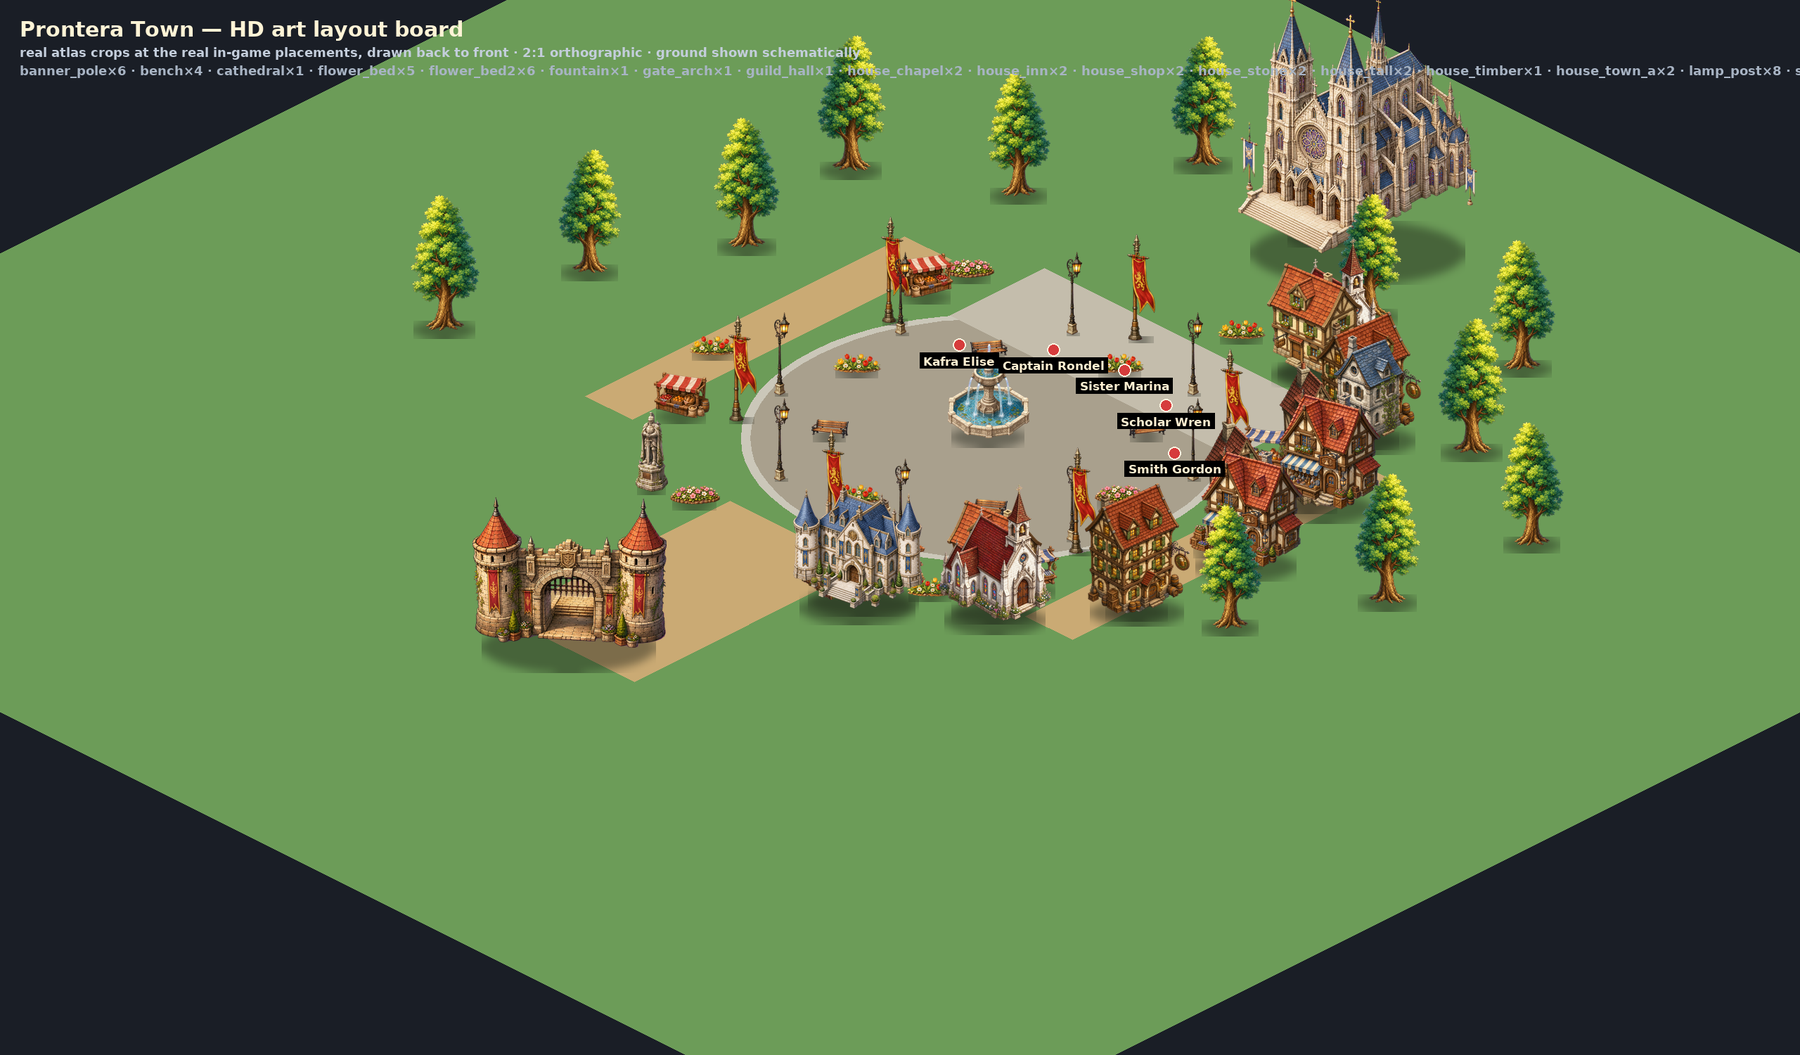
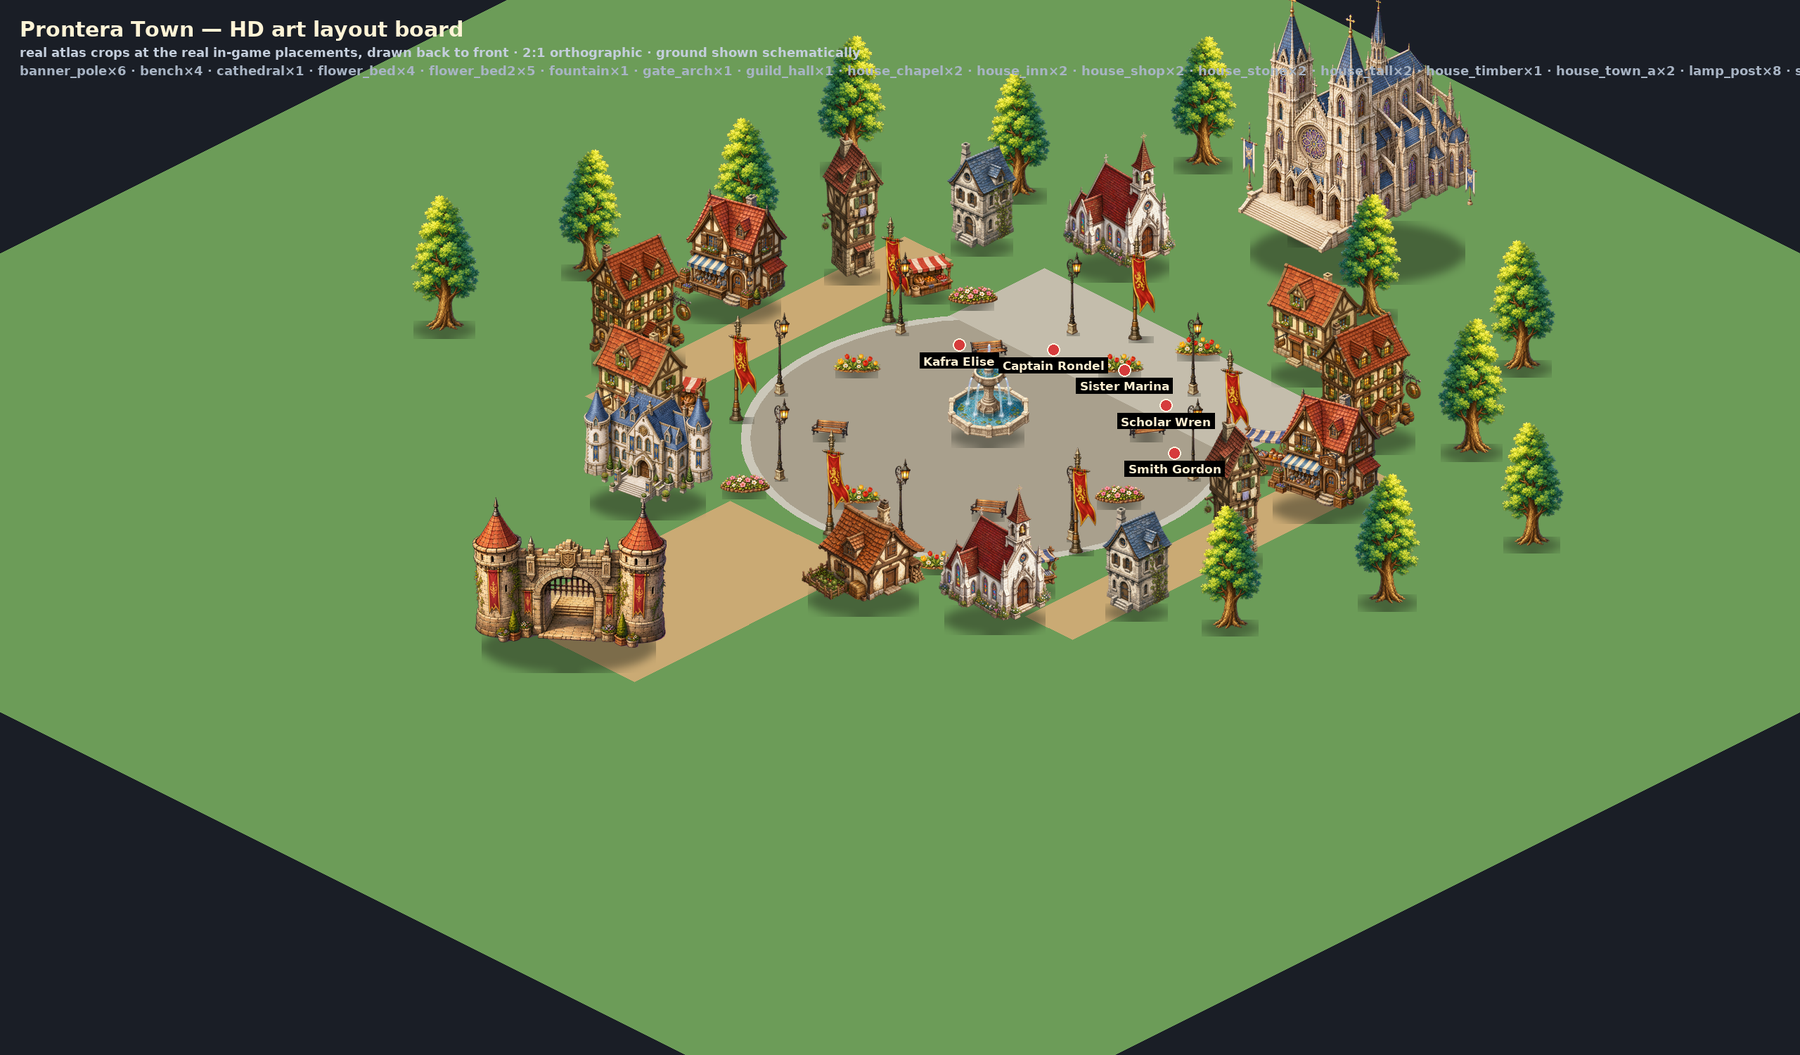
v69 camera pass: the town seen through the game's own camera, and the ring bug that caught
* a second board: tools/_town_dump.js now takes the camera the game itself would have at the hero's
  landing spot (town zoom clamp applied, 16:9 window) and preview_town_board.py projects every sprite
  through its real view-projection matrix -> Updates/town-hd/board-2-town-camera-view.png. The plan
  board stays for layout; the camera board is the closest thing to a screenshot this sandbox can make.
* BUG it caught: the ring's west arc was generated as side*(-66+k*22) degrees, and a mirrored angle
  list is the same list - all fourteen houses stood on the east side, seven pairs exactly on top of
  each other, invisible on the plan and obvious from the camera. The west arc is 114+k*22 now; seven
  houses each side, x -17.4..16.9. town_smoke gained a guard (houses on both sides, the avenue clear,
  the cathedral's north end clear, fourteen houses).
* the town is framed for its own size: entering the town clamps zoom to <= .46 (was .62, a field's
  own pull-back, which showed a third of a 44-unit town) and the wheel goes out to .40 in town only.
* flower beds on the plaza rim were landing on the two side paths (r 15.4); they are at r 12.8-14.9
  and skip the paving strips now.
* api_sim's long-standing flake fixed at the root: the exact-time offline assertion raced Date.now()
  with the handler (7200001 !== 7200000) and cascaded into three more; the test freezes the clock for
  that call. Four standalone runs and two full loops green.
[…]

diff --git a/index.html b/index.html
@@ -5106,7 +5106,10 @@ function townBuild(){
   // house it gets is as wide as that slice, which is what makes the fronts meet like a street.
   for(const side of[1,-1]){
     for(let k=0;k<7;k++){
-      const a=side*(-66+k*22)*Math.PI/180;
+      // the two arcs are mirrors of each other: -66..66 deg is the east side, 114..246 deg is the
+      // west (a mirrored angle list would have walked the east arc backwards - which is exactly the
+      // bug the camera board caught: fourteen houses, all of them on the east side, doubled).
+      const a=((side>0?-66:114)+k*22)*Math.PI/180;
       const r=16.7+((k*5+(side>0?0:1))%3)*.75;
       ring.push({i:ring.length,a,r,units:0,flip:(side<0)!==(k%2===1),
         x:Math.cos(a)*r,z:TOWN_Z+Math.sin(a)*r});
@@ -5195,7 +5198,8 @@ function townBuild(){
     prop('tree_big',x,z,TOWN_WH.tree_big+((i*7)%3)*.4,i%2===1,[g2]);
   }
   for(let i=0;i<26;i++){
-    const a=i*Math.PI/13,r=15.4+((i*11)%4)*.9,x=Math.cos(a)*r,z=TOWN_Z+Math.sin(a)*r;
+    const a=i*Math.PI/13,r=12.8+((i*11)%4)*.7,x=Math.cos(a)*r,z=TOWN_Z+Math.sin(a)*r;
+    if(Math.abs(x)>12.4&&Math.abs(x)<17.4&&z>TOWN_Z-12.2&&z<TOWN_Z+12.2)continue;   // not on the paths
     const fl=mk(TOWN.propBlk,SP(.09),[0xff9db8,0xffe066,0xffffff][i%3],x,.1,z);fl.castShadow=false;
     if(i%4===0)prop(i%8===0?'flower_bed':'flower_bed2',x,z,TOWN_WH.flower_bed,false,[fl]);
   }
@@ -5468,7 +5472,7 @@ function townEnter(quiet){
   if(!S)return;
   townBuild();
   TOWN.on=1;town=1;S.town=1;
-  TOWN.zoom=zoom;zoom=Math.min(zoom,.62);       // a town is wide: show the plaza, its NPCs and the roofs
+  TOWN.zoom=zoom;zoom=Math.min(zoom,.46);       // a town is wide: the whole square, station and gate
   mobs.length=0;mob=null;pend=[];castQ=[];tb={};
   pl.wx=pl.x=0;pl.wz=pl.z=6.5;pl.wt=0;pl.run=0;
   townArt();
@@ -5640,7 +5644,9 @@ dom.addEventListener('pointerup',e=>{const t2=TOWN_TAP;drag=null;TOWN_TAP=null;
   // loop, and a stray click must never send them off to a corner. A tap outside the town does nothing.
   if(t2&&townOn()&&Math.abs(e.clientX-t2.clientX)+Math.abs(e.clientY-t2.clientY)<=6)townClick(e.clientX,e.clientY)});
 dom.addEventListener('pointercancel',()=>{drag=null;TOWN_TAP=null});
-dom.addEventListener('wheel',e=>{e.preventDefault();zoom=Math.min(2,Math.max(.6,zoom*(e.deltaY<0?1.1:.9)))},{passive:false});
+dom.addEventListener('wheel',e=>{e.preventDefault();
+  const lo=TOWN.scene?.40:.6;                    // a town is wider than a field lane, so it zooms out further
+  zoom=Math.min(2,Math.max(lo,zoom*(e.deltaY<0?1.1:.9)))},{passive:false});
 
 // Keep the character near the visual centre: a very small forward lead (0.25 world units)
 // leaves the body centre about 2% above screen centre, instead of the old 5-unit lead that

diff --git a/tools/_town_dump.js b/tools/_town_dump.js
@@ -24,6 +24,18 @@ const man=fs.readFileSync(path.join(ROOT,'assets/town/town-atlas.json'),'utf8');
 ev(`TOWNP.man=JSON.parse(${JSON.stringify(man)});TOWNP.png=document.createElement('canvas');TOWNP.ok=1;TOWNP.tex.clear();TOWN.paint=0;`);
 ev('window.town()');
 const out=JSON.parse(ev(`(()=>{
+  // The camera the player actually gets: entered town, after the zoom clamp, positioned by the same
+  // code the frame loop uses. Written out so the board can draw the town through it.
+  TOWN.zoom=1;zoom=1;window.town();if(!townOn())window.town();
+  TOWN.zoom=1;   // enter at the wallet's default view, then apply the town's own clamp
+  cam.aspect=16/9;                       // a normal desktop window, not the stub's 3:2
+  const dd=(cam.aspect<1.5?26:18)/zoom;
+  az=0;el=.95;
+  // The camera follows the hero (ct lerps towards pl each frame), so the honest "just walked in"
+  // view is the one from where the hero lands, with ct settled on them - gate and avenue in shot.
+  const ct={x:pl.x*.6,z:pl.z-CAMERA_LEAD_Z,y:CAMERA_FOCUS_Y};
+  cam.position.set(ct.x+Math.sin(az)*Math.cos(el)*dd,Math.sin(el)*dd+.5,ct.z+Math.cos(az)*Math.cos(el)*dd);
+  cam.lookAt(new THREE.Vector3(ct.x,ct.y,ct.z));cam.updateMatrixWorld(true);cam.updateProjectionMatrix();
   const seen=new Set(),list=[];
   const walk=(root)=>{
     root.traverse(o=>{
@@ -48,7 +60,14 @@ const out=JSON.parse(ev(`(()=>{
   };
   [TOWN.houseKit,TOWN.propBlk,TOWN.g].forEach(walk);
   return JSON.stringify({sprites:list,npc:TOWN.list.map(n=>({id:n.def.id,x:n.def.x,z:n.def.z})),
-    plaza:{r:TOWN_R,z:TOWN_Z},flip:!!TOWN.houseBlk.visible===false});
+    plaza:{r:TOWN_R,z:TOWN_Z},
+    bound:TOWN_BOUND,
+    cam:{pos:cam.position.toArray(),target:[ct.x,0,ct.z],
+         proj:Array.from(cam.projectionMatrix.elements),
+         view:Array.from(cam.matrixWorldInverse.elements),
+         world:Array.from(cam.matrixWorld.elements),
+         fov:cam.fov,near:cam.near,far:cam.far,aspect:cam.aspect,zoom:zoom,
+         viewW:1600,viewH:900}});
 })()`));
 fs.writeFileSync('/tmp/town_placements.json',JSON.stringify(out,null,1));
 console.log('sprites:',out.sprites.length,'groups:',JSON.stringify(out.sprites.reduce((a,s)=>(a[s.grp]=(a[s.grp]||0)+1,a),{})));

diff --git a/tools/tests/api_sim.js b/tools/tests/api_sim.js
@@ -225,10 +225,17 @@ await T('offline time is server-timed, capped, half-rate, persistent until claim
   // A save request can be the first request after a long absence (for example, a tab that came
   // back online without running the visibility refresh). PUT must return a server claim rather than
   // silently accepting the save as online progress.
-  const directAway=Date.now()-2*60*60*1000;
+  // This path credits the elapsed time EXACTLY (2h is under the cap), so the clock must not tick
+  // between the arithmetic here and the handler's own Date.now(): a single millisecond used to fail
+  // the assertion below (7200001 !== 7200000) and cascade into three more. Freeze it for the call.
+  const realNow=Date.now,frozen=Date.now();
+  const directAway=frozen-2*60*60*1000;
   sqlite.prepare('UPDATE saves SET last_seen=?, rate_kph=? WHERE user_id=?').run(directAway,100,friendId);
   const directSave=JSON.parse(after.data.blob);directSave.kills+=100;
-  const direct=await api.putSave(env,c,{version:after.data.version,blob:JSON.stringify(directSave),offlineClaimId:directSave.offlineClaimId});
+  Date.now=()=>frozen;
+  let direct;
+  try{direct=await api.putSave(env,c,{version:after.data.version,blob:JSON.stringify(directSave),offlineClaimId:directSave.offlineClaimId});}
+  finally{Date.now=realNow}
   assert.strictEqual(direct.status,428,'a first-return PUT also requires the pending claim');
   assert.strictEqual(direct.data.offlineClaim.creditedMs,2*60*60*1000);
   assert.strictEqual(direct.data.offlineClaim.kills,100);

diff --git a/tools/tests/town_smoke.js b/tools/tests/town_smoke.js
@@ -316,6 +316,19 @@ t('the painted HD pack dresses the town, and dressings are protected from a late
   leave();
 });
 
+t('the ring walls both sides of the square, not one', () => {
+  // The arc is generated per side; a mirrored angle list once walked the east arc twice and put all
+  // fourteen houses on the east side, which the camera board caught. One house per side per step.
+  const xs = ev('TOWN.ring.map(h=>h.x)');
+  const west = xs.filter(x => x < -6).length, east = xs.filter(x => x > 6).length;
+  assert.ok(west >= 5 && east >= 5, 'houses on both sides of the square (west ' + west + ', east ' + east + ')');
+  // the avenue to the gate runs south (+z) down the middle: no house may stand on it, and the
+  // cathedral's plot at the north end stays clear
+  assert.ok(ev('TOWN.ring.every(h=>!(Math.abs(h.x)<6&&h.z-TOWN_Z>6))'), 'and the avenue to the gate stays open');
+  assert.ok(ev('TOWN.ring.every(h=>h.z-TOWN_Z>-20)'), 'and the cathedral keeps its north end');
+  assert.strictEqual(ev('TOWN.ring.length'), 14, 'fourteen houses wall the square');
+});
+
 t('the ring of buildings is either the kit crops or the block houses, never nothing', () => {
   const kit = ev('TOWN.kitArt'), n = ev('TOWN.houseBlk.children.length');
   assert.ok(n >= 10, 'there are a lot of buildings round the plaza: ' + n);

diff --git a/tools/preview_town_board.py b/tools/preview_town_board.py
@@ -1,8 +1,10 @@
 #!/usr/bin/env python3
 """
-Town layout board — what the player's town is made of, drawn from the shipping art.
+Town layout boards — what the player's town is made of, drawn from the shipping art.
 
-  python3 tools/preview_town_board.py            # writes Updates/town-hd/board-1-town-layout.png
+  python3 tools/preview_town_board.py
+    -> Updates/town-hd/board-1-town-layout.png        (plan, 2:1 orthographic)
+    -> Updates/town-hd/board-2-town-camera-view.png   (through the game's own camera)
 
 This is NOT a screenshot: there is no browser in this workspace. It is an offline composition of
 the REAL atlas (assets/town/town-atlas.json + .png) at the REAL placements (tools/_town_dump.js
@@ -61,6 +63,96 @@ def proj(x, z, y=0.0):
 
 def ground_poly(pts, color, draw):
     draw.polygon([proj(x, z) for x, z in pts], fill=color)
+
+
+def mat4(m):
+    """three.js stores matrices column-major as a flat 16 list; return rows for multiplying."""
+    return [[m[c * 4 + r] for c in range(4)] for r in range(4)]
+
+
+def matmul(a, b):
+    return [[sum(a[r][k] * b[k][c] for k in range(4)) for c in range(4)] for r in range(4)]
+
+
+def project(vp, x, y, z, w, h):
+    """world -> pixels through the game's own view-projection matrix, or None behind the camera."""
+    v = [x, y, z, 1.0]
+    clip = [sum(vp[r][k] * v[k] for k in range(4)) for r in range(4)]
+    if clip[3] <= 0.001:
+        return None
+    return ((clip[0] / clip[3] * .5 + .5) * w, (.5 - clip[1] / clip[3] * .5) * h)
+
+
+def camera_board(man, dump, atlas):
+    c = dump['cam']
+    W, H = c['viewW'], c['viewH']
+    vp = matmul(mat4(c['proj']), mat4(c['view']))
+    board = Image.new('RGBA', (W, H), (26, 30, 38, 255))
+    d = ImageDraw.Draw(board)
+    R, TZ = dump['plaza']['r'], dump['plaza']['z']
+
+    def poly(pts, color):
+        px = [project(vp, x, .01, z, W, H) for x, z in pts]
+        if any(p is None for p in px):
+            return
+        d.polygon(px, fill=color)
+
+    # --- ground (schematic, projected) ---
+    poly([(-46, -46), (46, -46), (46, 46), (-46, 46)], (108, 156, 88))
+    poly([(cx, cz + TZ) for cx, cz in _circle(R + .45, 64)], KERB)
+    poly([(cx, cz + TZ) for cx, cz in _circle(R, 64)], COBBLE)
+    poly([(-4.5, 22.5), (4.5, 22.5), (4.5, 7.0), (-4.5, 7.0)], DIRT)
+    for cx in (-14.9, 14.9):
+        poly([(cx - 1.6, TZ - 10.8), (cx + 1.6, TZ - 10.8), (cx + 1.6, TZ + 10.8), (cx - 1.6, TZ + 10.8)], DIRT)
+    poly([(-9.6, -19.4), (9.6, -19.4), (9.6, -13.0), (-9.6, -13.0)], (196, 189, 172))
+    # the walkable bound, so it is visible whether anything grows inside it
+    b = dump['bound']
+    for edge in ([(-b['x0'], b['z0']), (-b['x1'], b['z0'])], [(-b['x1'], b['z0']), (-b['x1'], b['z1'])],
+                 [(-b['x1'], b['z1']), (-b['x0'], b['z1'])], [(-b['x0'], b['z1']), (-b['x0'], b['z0'])]):
+        px = [project(vp, x, .05, z, W, H) for x, z in edge]
+        if all(p is not None for p in px):
+            d.line(px, fill=(120, 200, 130, 200), width=2)
+
+    # --- the sprites, far to near (billboards always face the camera) ---
+    rows = []
+    for sp in dump['sprites']:
+        e = man['sprites'].get(sp['art'])
+        if not e:
+            continue
+        anchor = project(vp, sp['x'], sp.get('y', 0), sp['z'], W, H)
+        top = project(vp, sp['x'], sp.get('y', 0) + sp['h'], sp['z'], W, H)
+        if not anchor or not top:
+            continue
+        dist = ((sp['x'] - c['pos'][0]) ** 2 + (sp['z'] - c['pos'][2]) ** 2) ** .5
+        rows.append((dist, sp, e, anchor, top))
+    rows.sort(key=lambda r: -r[0])
+    for dist, sp, e, anchor, top in rows:
+        ph = max(2, int(round(abs(top[1] - anchor[1]))))
+        pw = max(2, int(round(ph * e['w'] / e['h'])))
+        crop = atlas.crop((e['x'], e['y'], e['x'] + e['w'], e['y'] + e['h']))
+        if sp['flip']:
+            crop = crop.transpose(Image.FLIP_LEFT_RIGHT)
+        crop = crop.resize((pw, ph), Image.LANCZOS)
+        box = (int(round(anchor[0] - pw / 2)), int(round(anchor[1] - ph)))
+        if box[0] > W or box[0] + pw < 0 or box[1] > H:
+            continue
+        board.alpha_composite(crop, box)
+
+    # --- NPC markers + the frame's own caption ---
+    f = load_font(17)
+    for n in dump['npc']:
+        p = project(vp, n['x'], 1.4, n['z'], W, H)
+        if not p:
+            continue
+        d.ellipse((p[0] - 8, p[1] - 8, p[0] + 8, p[1] + 8), fill=(214, 60, 60), outline=(255, 245, 225), width=2)
+    title = load_font(26)
+    small = load_font(16)
+    d.text((24, 20), 'Prontera Town — through the game\u2019s own camera', font=title, fill=(255, 244, 214))
+    d.text((24, 54), 'camera (%.0f, %.0f, %.0f) looking at the plaza centre · fov %d · zoom %.2f · %dx%d'
+           % (c['pos'][0], c['pos'][1], c['pos'][2], c['fov'], c['zoom'], W, H), font=small, fill=(196, 206, 220))
+    d.text((24, 74), 'ground is schematic (the real floors are the kit HD tiles) · green box = where the hero may walk',
+           font=small, fill=(168, 180, 196))
+    return board
 
 
 def main():
@@ -147,6 +239,12 @@ def main():
 
     board.convert('RGB').save(OUT, 'PNG', optimize=True)
     print('wrote %s (%s · %d sprites placed)' % (os.path.relpath(OUT, ROOT), '%dx%d' % board.size, len(dump['sprites'])))
+
+    if 'cam' in dump:
+        cam_board = camera_board(man, dump, atlas)
+        OUT2 = os.path.join(ROOT, 'Updates', 'town-hd', 'board-2-town-camera-view.png')
+        cam_board.convert('RGB').save(OUT2, 'PNG', optimize=True)
+        print('wrote %s (%s)' % (os.path.relpath(OUT2, ROOT), '%dx%d' % cam_board.size))
 
 
 def _circle(r, n):

diff --git a/AGENTS.md b/AGENTS.md
@@ -4082,3 +4082,38 @@ assigned for feel rather than fidelity. While reworking that, two shipped bugs s
   (`Updates/town-hd/board-1-town-layout.png`, from `tools/_town_dump.js` +
   `tools/preview_town_board.py`) is what the new proportions were judged on — the sprite-size table in
   this entry is the same numbers the board draws with.
+
+### 2026-10-07 — `grind-v69` camera pass: the town seen through the game's own camera (and the bug that caught), plus the flaky `api_sim`
+
+* **Why:** scale and layout were being judged on a plan board, and a plan is not what the player sees.
+  `tools/preview_town_board.py` now renders a **second** board — `Updates/town-hd/board-2-town-camera-view.png`
+  — by taking the camera the game itself would have and projecting every sprite through its real
+  view-projection matrix (`cam.matrixWorldInverse` x `cam.projectionMatrix`, both dumped by
+  `tools/_town_dump.js`). The dump now also enters the town the way the game does, applies the town's
+  own zoom clamp, pins the window to 16:9 and settles the camera on the spot the hero lands on
+  (`ct = pl*.6 / pl.z - CAMERA_LEAD_Z`), so the board is the honest "you just walked in" frame.
+* **The bug the camera board caught: the ring only ever walled the east side.** The two arcs were
+  generated as `side * (-66 + k*22)` degrees, and a mirrored angle list is the same list — fourteen
+  houses, seven pairs stacked on top of each other, all of them east of the fountain. The plan board
+  had hidden it because the pairs overlap exactly. The west arc is now `114 + k*22` degrees (a real
+  mirror), so the ring is seven houses east and seven west, x from -17.4 to 16.9. A regression guard
+  was added to `town_smoke.js` (houses on **both** sides, the avenue to the gate clear, the cathedral's
+  north end clear, fourteen houses) — the plan board could not have caught it, the camera board did.
+* **The town is framed for its own size.** The field's default pull-back (`18` units of view at zoom
+  `1`, the same for every map) shows about a third of a 44-unit town, so entering the town now clamps
+  the zoom to **<= .46** (was .62) and the wheel may go out to **.40** in town (the fields keep their
+  own `.6..2` exactly as before — `TOWN.scene` picks the floor). At .46 the square, the houses and
+  the gate are in frame together.
+* **Flower beds no longer grow through the roads.** The beds on the plaza's rim were placed at
+  r 15.4, which put them on the two `limestone_pale` side paths; they now sit at r 12.8-14.9 and skip
+  the strips (`|x| 12.4..17.4`, `|z-TZ| < 12.2`), so they dress the cobbles and the grass and never
+  the paving.
+* **`api_sim`'s flake, found and fixed at the root.** The suite had been failing intermittently (and
+  only in a back-to-back run) on "offline time is server-timed…": it computes `Date.now()-2h` for
+  `last_seen` and the handler credits the elapsed time **exactly**, so whenever a millisecond ticked
+  between the two calls the assertion saw `7200001 !== 7200000` and three later assertions (200 vs
+  428, kills 207 vs 7) cascaded off it. The test now freezes `Date.now` for that one call and restores
+  it in a `finally`. Four consecutive standalone runs and **two full `*_sim.js` loops: green**.
+* **Tests:** `town_smoke.js` **30/30** (the new ring guard); all `*_sim.js` green twice over; all five
+  `--check` tools current. `dist/` rebuilt. Build tag unchanged (`grind-v69`) — nothing in this pass
+  changes what a player sees in the fields.

diff --git a/READ-ME-FIRST.md b/READ-ME-FIRST.md
@@ -171,12 +171,16 @@ in-game and stored in the browser (`pg_acc4`; saves under `pg_save3_<user>`).
   pack finishing its download *before* the town was ever built, which dereferenced a town that did not
   exist yet and would have thrown on boot.
 * **How this pass was looked at without a browser:** this workspace cannot download Chrome, so the
-  town's layout is checked by `node tools/_town_dump.js` (jsdom walks into the real town with the real
-  atlas manifest and writes every sprite's placement) and `python3 tools/preview_town_board.py`, which
-  composes those onto one image at 2:1 — the buildings, fountain, gate, statue, stalls and props are
-  the real crops at their real world sizes, back to front, shadows and all. It is how the ring was
-  caught overlapping itself and the cathedral, and how the street line was tuned. The board is at
-  `Updates/town-hd/board-1-town-layout.png`.
+  town is checked by `node tools/_town_dump.js` (jsdom walks into the real town with the real atlas
+  manifest, takes the camera the game would have at the hero's landing spot, and writes every sprite's
+  placement) and `python3 tools/preview_town_board.py`, which draws **two** boards: the plan at 2:1
+  (`Updates/town-hd/board-1-town-layout.png`, real crops at real world sizes, back to front) and the
+  **view through the game's own camera** (`board-2-town-camera-view.png`, every sprite projected
+  through the real view-projection matrix). The camera board is what caught the last real bug - the
+  ring's west arc was a mirrored angle list, which is the *same* list, so all fourteen houses stood on
+  the east side exactly on top of each other, invisible on the plan and obvious from the camera.
+  Entering the town also pulls the camera back further than a field does (zoom .46, wheel to .40),
+  because the square does not fit in a field's frame.
 
 ## BUILD v67 — moderated movement, fixed combat floats, server-timed cloud idle claims
 

diff --git a/TOOLS-START-HERE.md b/TOOLS-START-HERE.md
@@ -83,12 +83,22 @@ is not named `*_sim.js`. Run it after **any** change to the town, the pointer ha
 
 ```sh
 node tools/_town_dump.js            # needs jsdom + three: writes /tmp/town_placements.json
-python3 tools/preview_town_board.py # writes Updates/town-hd/board-1-town-layout.png
+python3 tools/preview_town_board.py # writes both boards below
 ```
 
-The dump enters the real town with the real `assets/town/town-atlas.json`, and the board composes
-those placements at 2:1 — real crops, real world sizes, back to front. Layout questions ("does the
-ring overlap", "is the fountain too big") get answered there; lighting and colour still need the game.
+The dump enters the real town with the real `assets/town/town-atlas.json` and takes the camera the
+game itself would have at the hero's landing spot; the tool writes two boards from that one dump:
+
+* `board-1-town-layout.png` — the plan, 2:1, real crops at real world sizes, back to front. Use it for
+  "does the ring overlap", "is the fountain too big".
+* `board-2-town-camera-view.png` — the same sprites projected through the game's own view-projection
+  matrix from its own camera, which is the closest thing to a screenshot available here. Use it for
+  framing: what is in shot when you walk in, whether the ring walls both sides, what a player sees
+  first. **A bug that both boards together caught:** the ring's west arc was a mirrored angle list,
+  which is the same list — all fourteen houses stood on the east side, exactly overlapping, invisible
+  on the plan and obvious on the camera view.
+
+Lighting, colour and the real floor textures still need the game itself.
 
 `pack_sim.js` reads that slice; `sprite_viewer_sim.js` checks the canonical viewer against the
 PNG files. The rest pull live code out of `index.html` by string boundary, so moving a
